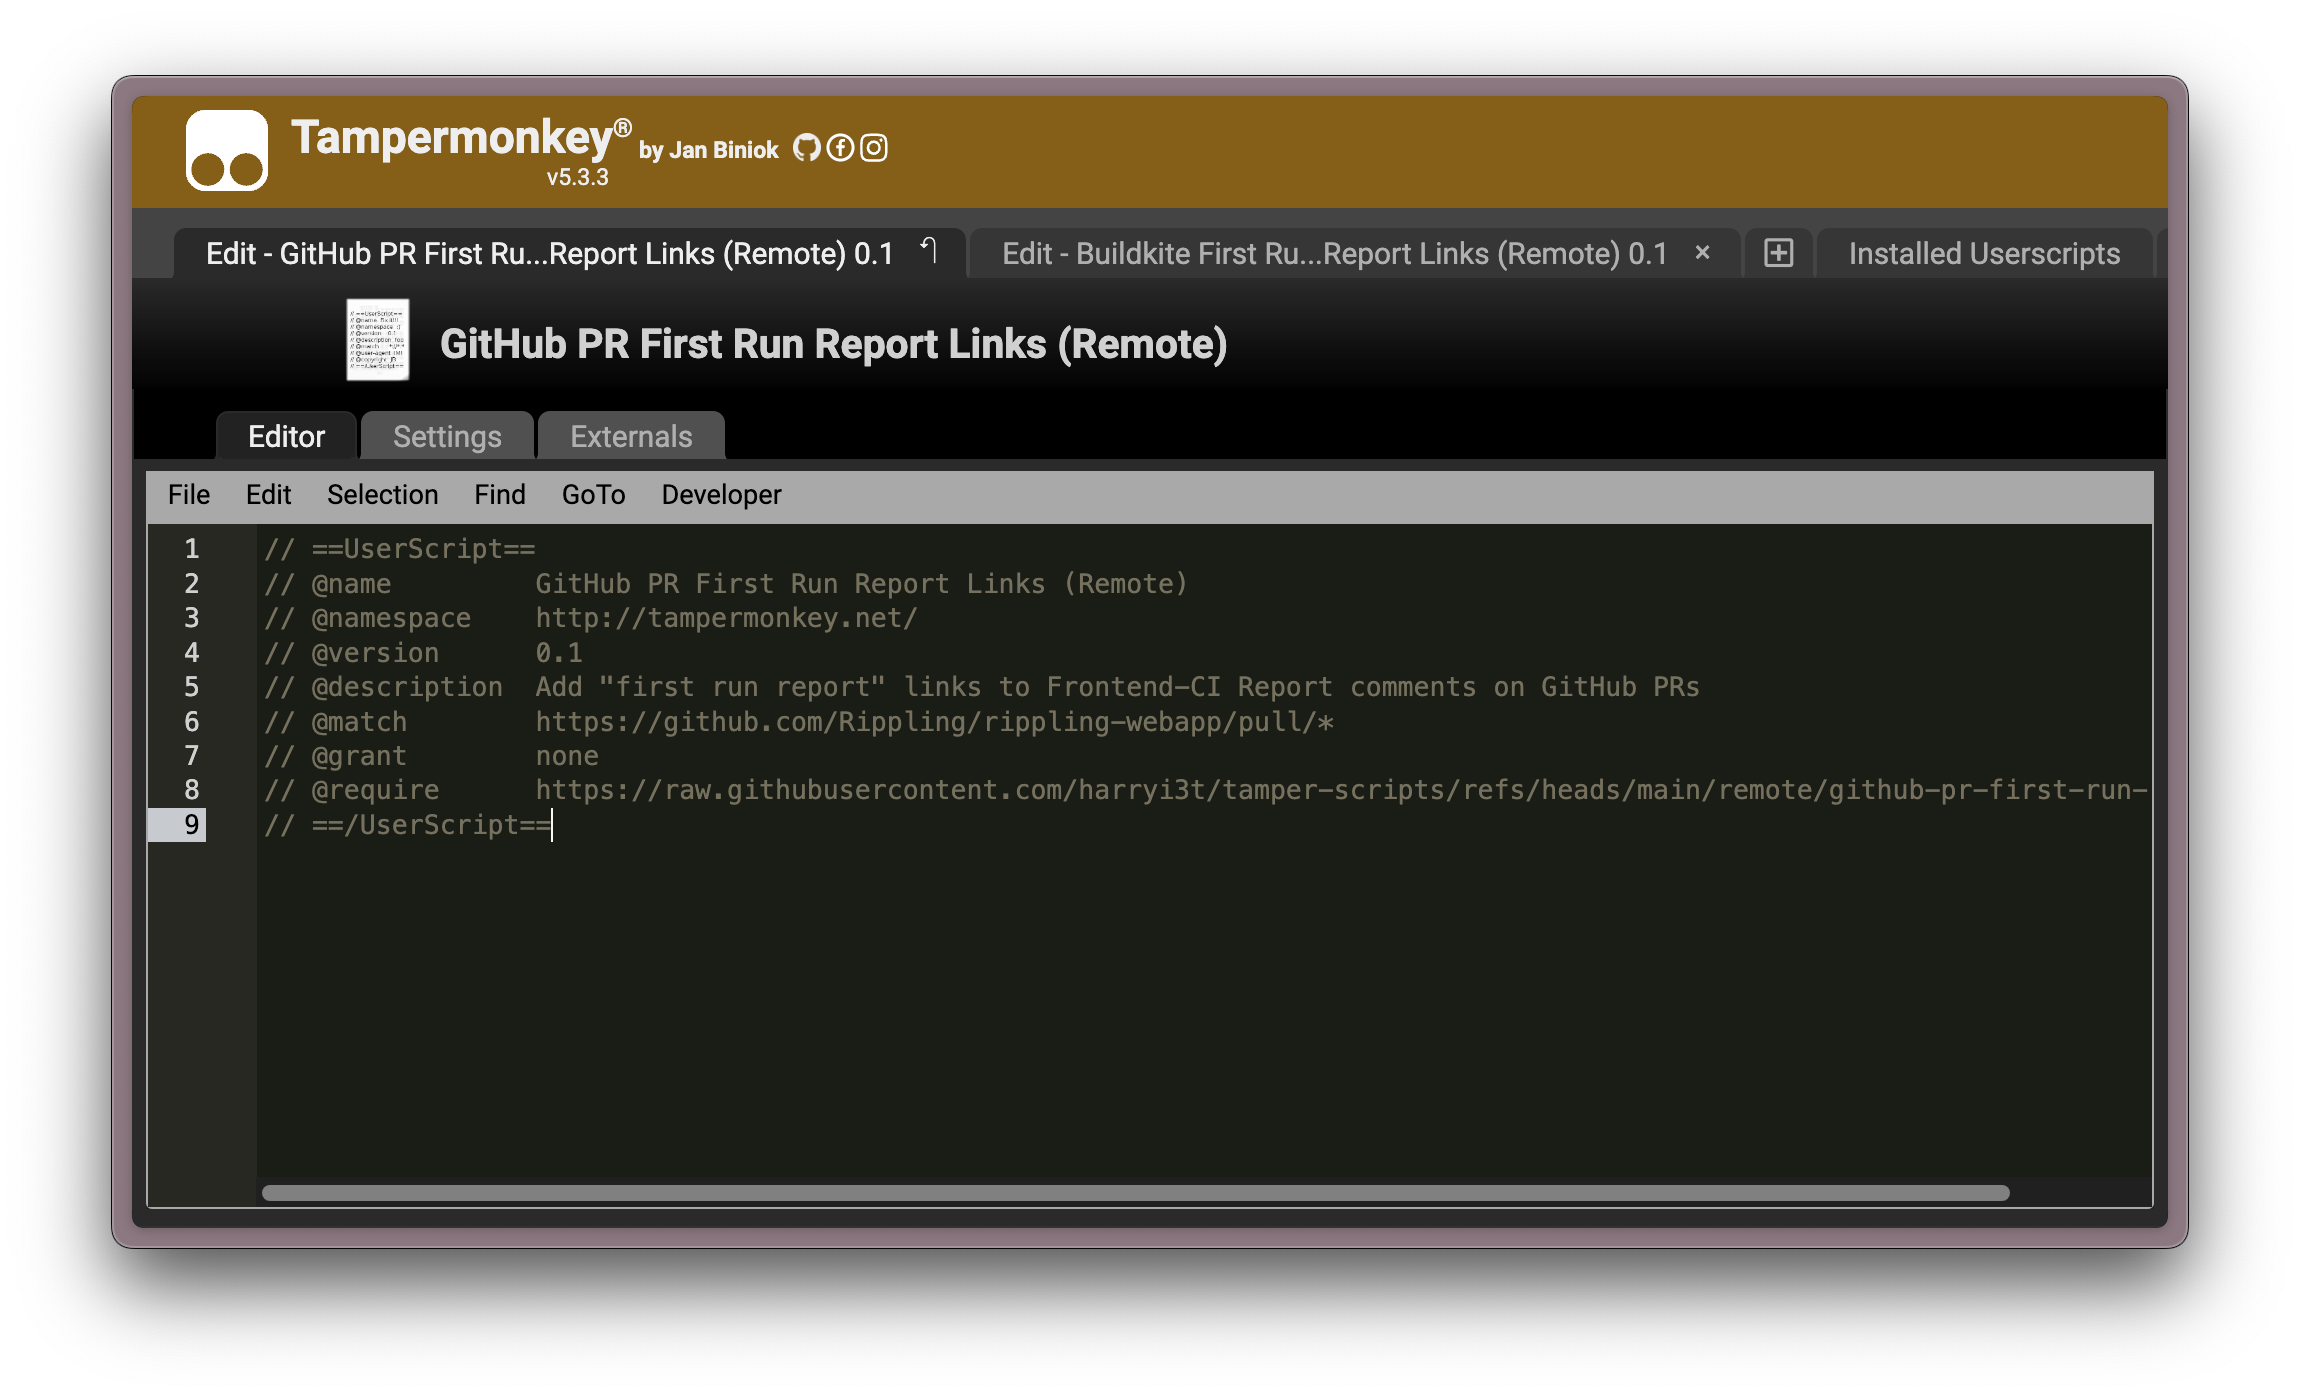
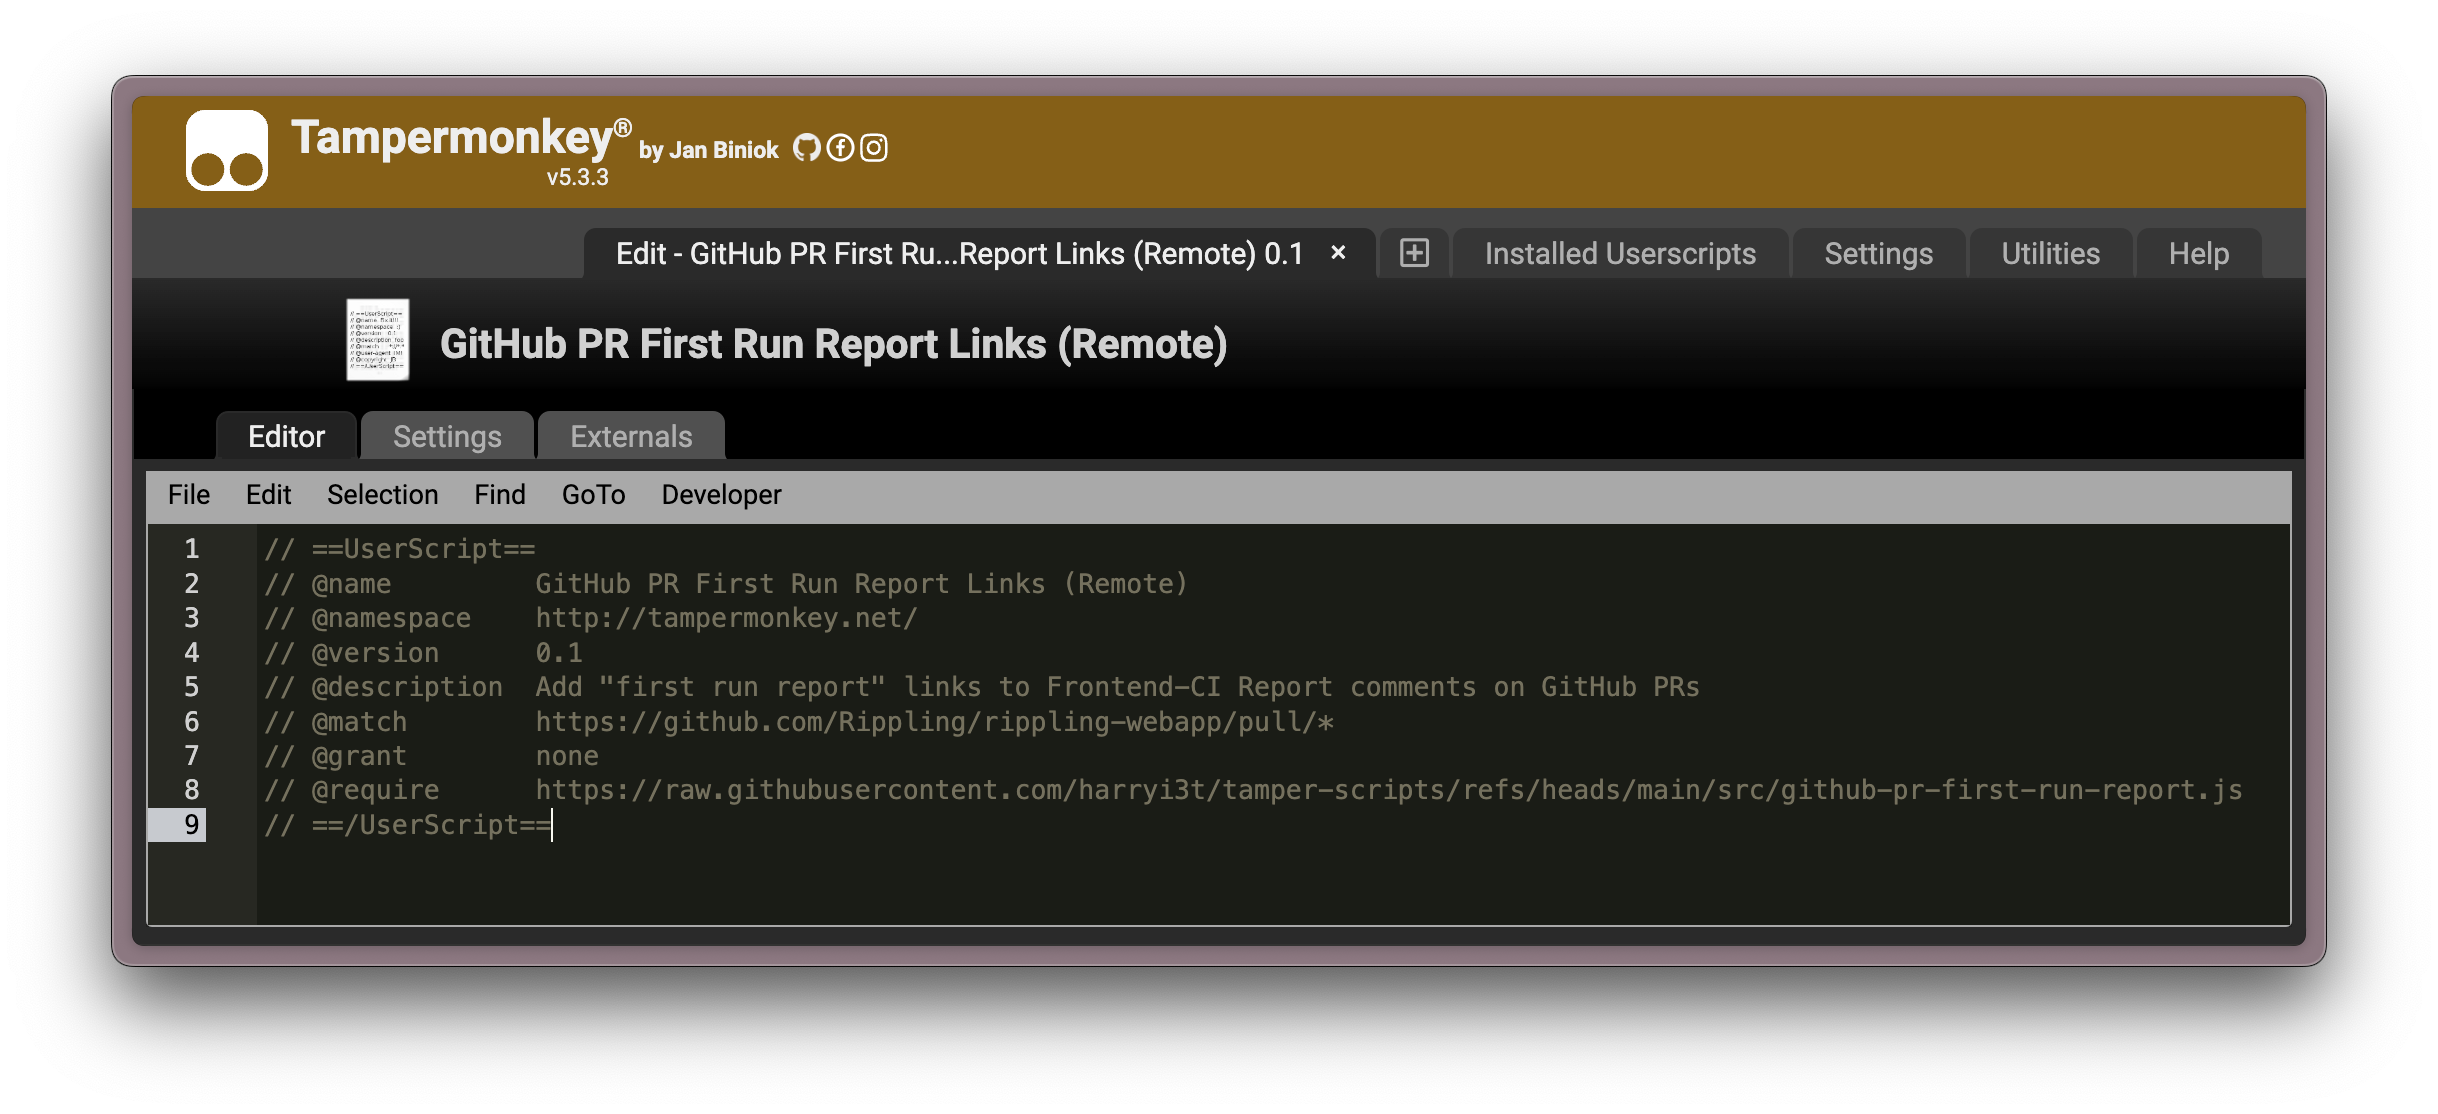
Fixed the file paths

diff --git a/remote/buildkite-first-run-report-remote.js b/remote/buildkite-first-run-report-remote.js
@@ -5,5 +5,5 @@
 // @description  Add "first run report" links to Buildkite test analytics pages
 // @match        https://buildkite.com/organizations/rippling/analytics/suites/rippling-webapp-3/tests/*
 // @grant        none
-// @require      https://raw.githubusercontent.com/harryi3t/tamper-scripts/refs/heads/main/remote/buildkite-first-run-report-remote.js
+// @require      https://raw.githubusercontent.com/harryi3t/tamper-scripts/refs/heads/main/src/buildkite-first-run-report.js
 // ==/UserScript==

diff --git a/remote/github-pr-first-run-report-remote.js b/remote/github-pr-first-run-report-remote.js
@@ -5,5 +5,5 @@
 // @description  Add "first run report" links to Frontend-CI Report comments on GitHub PRs
 // @match        https://github.com/Rippling/rippling-webapp/pull/*
 // @grant        none
-// @require      https://raw.githubusercontent.com/harryi3t/tamper-scripts/refs/heads/main/remote/github-pr-first-run-report.js
+// @require      https://raw.githubusercontent.com/harryi3t/tamper-scripts/refs/heads/main/src/github-pr-first-run-report.js
 // ==/UserScript==

diff --git a/remote/sentry-copy-on-call-remote.js b/remote/sentry-copy-on-call-remote.js
@@ -5,5 +5,5 @@
 // @description  Add a button to copy on-call info from Sentry issue pages
 // @match        https://people-center-inc.sentry.io/issues/*
 // @grant        none
-// @require      https://raw.githubusercontent.com/harryi3t/tamper-scripts/refs/heads/main/remote/sentry-copy-on-call.js
+// @require      https://raw.githubusercontent.com/harryi3t/tamper-scripts/refs/heads/main/src/sentry-copy-on-call.js
 // ==/UserScript==

diff --git a/README.md b/README.md
@@ -41,7 +41,7 @@ Available scripts:
 - While developing, update the `@require` in your Tampermonkey script to point to your local file.
 
    ```js
-   // @require file:///<path-to-tamper-scripts>/remote/<slug>-remote.js
+   // @require file:///<path-to-tamper-scripts>/src/<slug>.js
    ```
 
 ## Publishing
@@ -50,7 +50,7 @@ Available scripts:
 2. Ensure that the `@require` in your Tampermonkey script points to the raw GitHub URL:
 
    ```js
-   // @require https://raw.githubusercontent.com/harryi3t/tamper-scripts/refs/heads/main/remote/<slug>-remote.js
+   // @require https://raw.githubusercontent.com/harryi3t/tamper-scripts/refs/heads/main/src/<slug>.js
    ```
 
 ## Contributing
